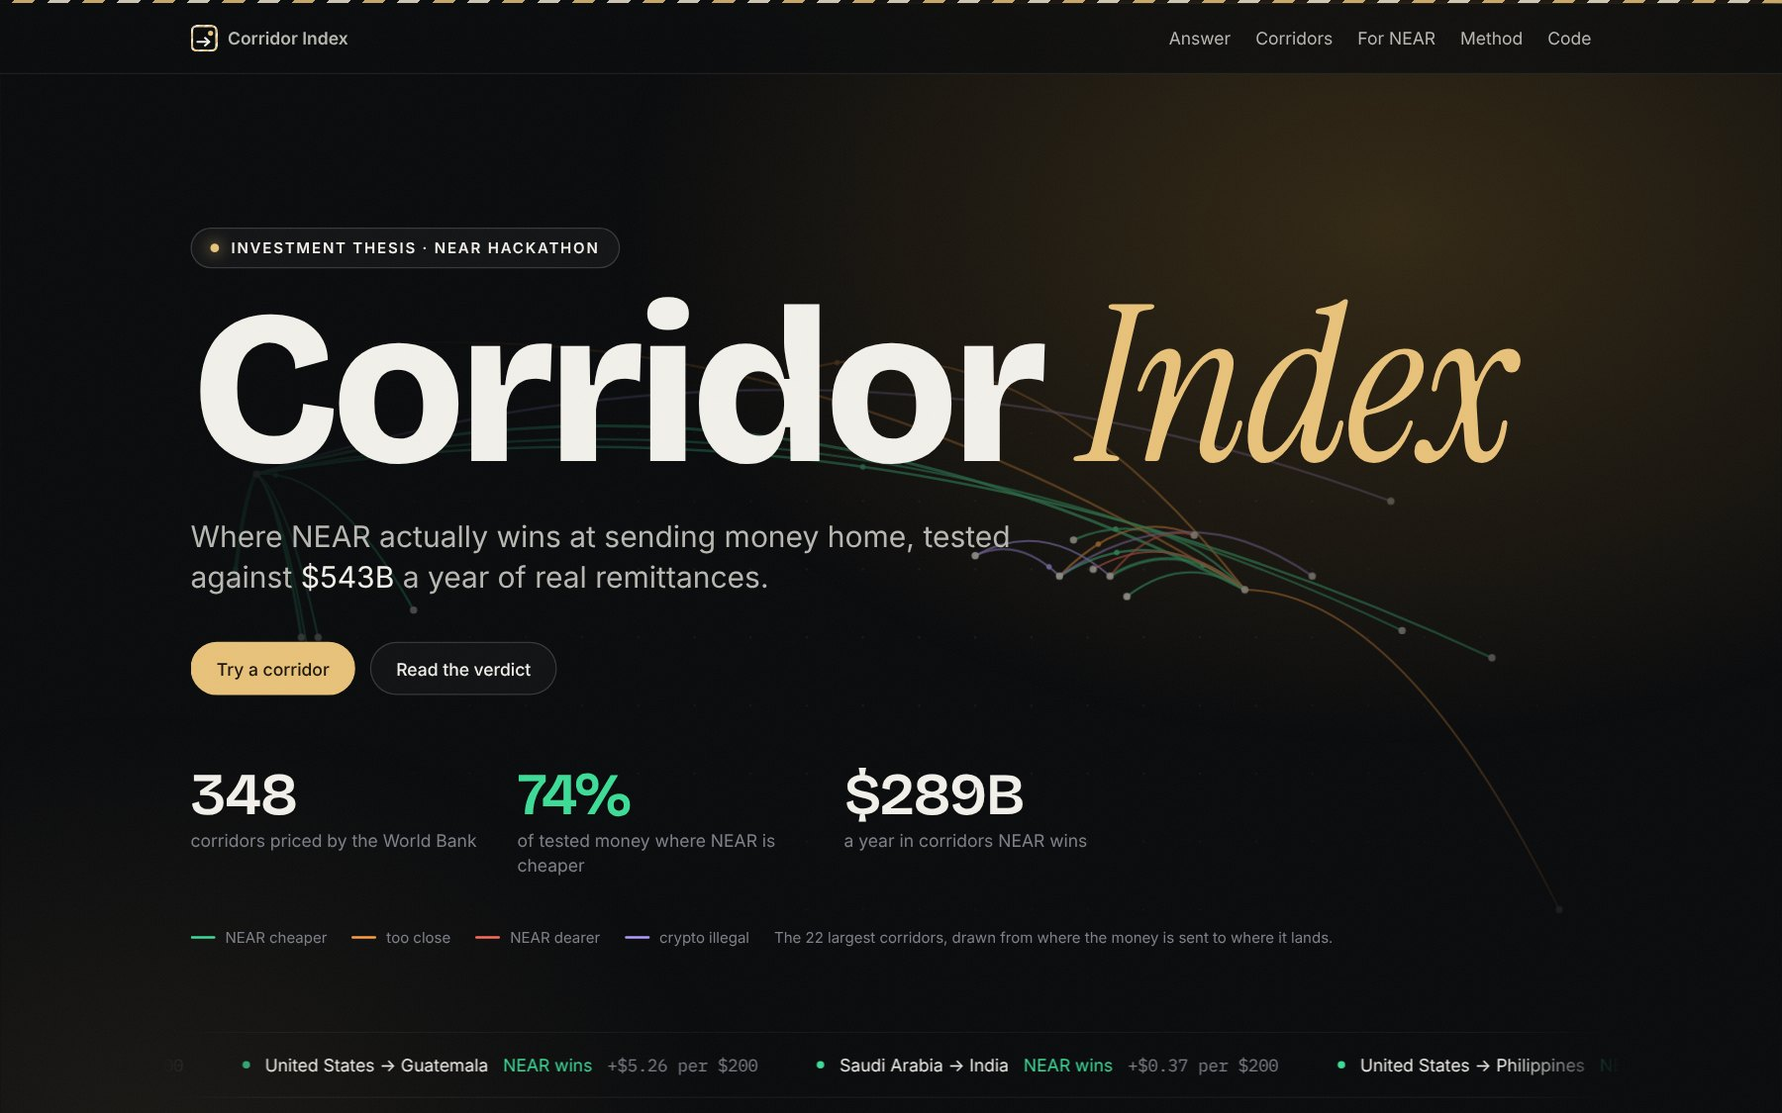
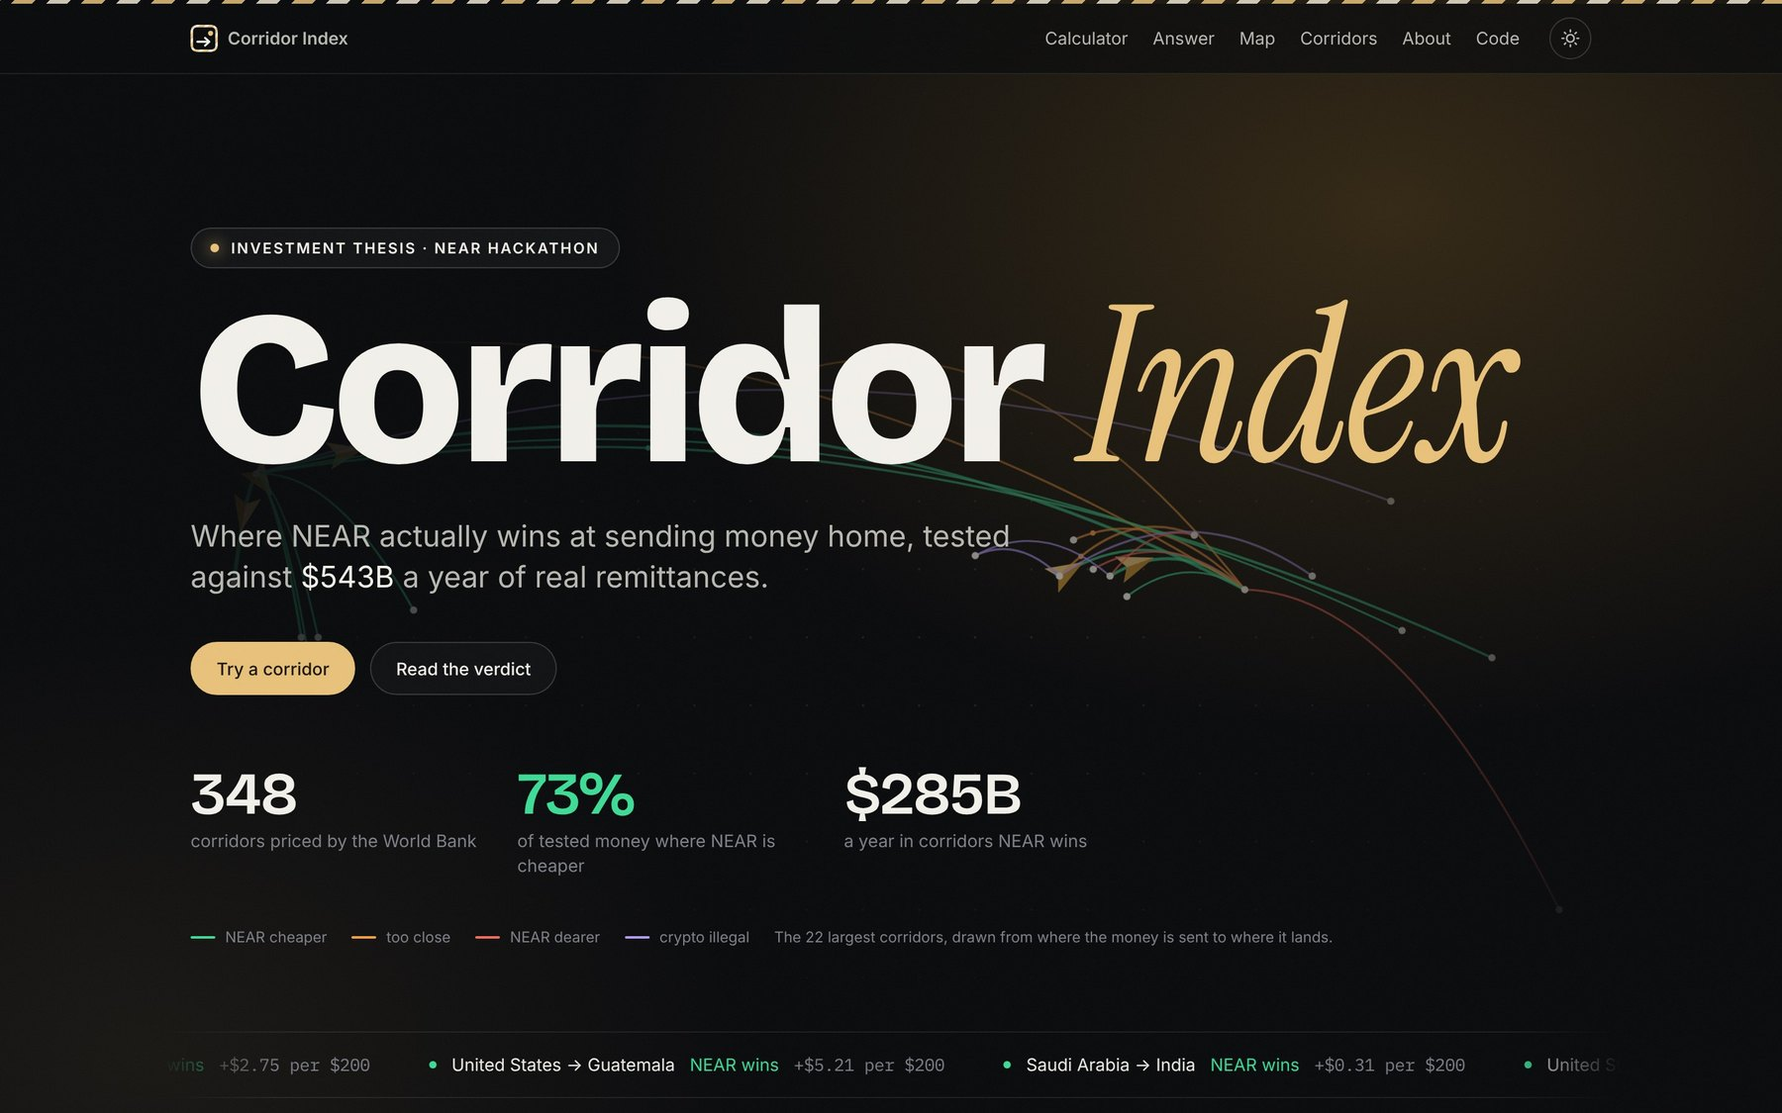
README with feature gallery, live badges and test results; end-to-end checks

diff --git a/src/components/History.tsx b/src/components/History.tsx
@@ -5,7 +5,7 @@ type Row = (typeof history)[number];
 const fmt = (iso: string) => new Date(iso).toLocaleDateString("en-GB", { day: "numeric", month: "short", timeZone: "UTC" }) + ", " + new Date(iso).toLocaleTimeString("en-GB", { hour: "2-digit", minute: "2-digit", timeZone: "UTC" });
 
 function Spark({ title, rows, get, kill, max, color }: { title: string; rows: Row[]; get: (r: Row) => number; kill: number; max: number; color: string }) {
-  const W = 520, H = 170, L = 40, R = 16, Tp = 14, B = 26;
+  const W = 520, H = 170, L = 40, R = 6, Tp = 14, B = 26;
   const x = (i: number) => (rows.length === 1 ? (L + W - R) / 2 : L + (i * (W - L - R)) / (rows.length - 1));
   const y = (v: number) => Tp + (1 - v / max) * (H - Tp - B);
   const pts = rows.map((r, i) => `${x(i).toFixed(1)},${y(get(r)).toFixed(1)}`).join(" ");
@@ -29,7 +29,7 @@ function Spark({ title, rows, get, kill, max, color }: { title: string; rows: Ro
         {rows.map((r, i) => (
           <g key={r.at}>
             <circle cx={x(i)} cy={y(get(r))} r={4.5} fill="var(--paper)" stroke={color} strokeWidth={2}><title>{`${fmt(r.at)} UTC: ${share(get(r), 1)}`}</title></circle>
-            <text x={x(i)} y={H - 6} textAnchor="middle" className="fill-[var(--muted)] text-[10px]">{fmt(r.at)}</text>
+            <text x={x(i)} y={H - 6} textAnchor={rows.length > 1 && i === 0 ? "start" : rows.length > 1 && i === rows.length - 1 ? "end" : "middle"} className="fill-[var(--muted)] text-[10px]">{fmt(r.at)}</text>
           </g>
         ))}
       </svg>

diff --git a/README.md b/README.md
@@ -1,68 +1,114 @@
 <p align="center">
-  <img src="docs/icon.svg" width="72" alt="Corridor Index">
+  <img src="docs/icon.svg" width="76" alt="Corridor Index">
 </p>
 
 <h1 align="center">Corridor Index</h1>
 
-<p align="center"><b>Where NEAR actually wins at sending money home.</b> A re-runnable investment thesis for NEAR, built at NEAR HACKATHON for the <b>Investment Thesis</b> track.</p>
+<p align="center"><b>Where NEAR actually wins at sending money home.</b><br>A re-runnable investment thesis for NEAR, built at NEAR HACKATHON for the <b>Investment Thesis</b> track.</p>
 
 <p align="center">
-  <a href="https://corridor-index-near.vercel.app"><img alt="Live site" src="https://img.shields.io/badge/live-corridor--index--near.vercel.app-17181c"></a>
-  <a href="data/thesis.json"><img alt="348 corridors" src="https://img.shields.io/badge/corridors-348-1d3fbb"></a>
-  <a href="#how-every-number-is-made"><img alt="Re-run with one command" src="https://img.shields.io/badge/re--run-npm%20run%20thesis-0e7a52"></a>
-  <a href="LICENSE"><img alt="MIT license" src="https://img.shields.io/badge/license-MIT-b3261e"></a>
+  <a href="https://corridor-index-near.vercel.app"><img alt="Live site" src="https://img.shields.io/badge/live-corridor--index--near.vercel.app-e8c27a?labelColor=17181c"></a>
+  <a href="https://github.com/farazeool/corridor-index/actions/workflows/rerun.yml"><img alt="Daily re-run" src="https://github.com/farazeool/corridor-index/actions/workflows/rerun.yml/badge.svg"></a>
+  <a href="data/thesis.json"><img alt="348 corridors" src="https://img.shields.io/badge/corridors-348-17181c"></a>
+  <a href="#tested"><img alt="Tests" src="https://img.shields.io/badge/tests-7%20unit%20%C2%B7%2048%20end--to--end-3ddc97?labelColor=17181c"></a>
+  <a href="LICENSE"><img alt="MIT license" src="https://img.shields.io/badge/license-MIT-17181c"></a>
+</p>
+<p align="center">
+  <img alt="NEAR Intents" src="https://img.shields.io/badge/NEAR%20Intents-1Click%20API-00ec97?logo=near&logoColor=white&labelColor=17181c">
+  <img alt="Next.js 16" src="https://img.shields.io/badge/Next.js-16-white?logo=nextdotjs&logoColor=white&labelColor=17181c&color=444">
+  <img alt="React 19" src="https://img.shields.io/badge/React-19-61dafb?logo=react&logoColor=61dafb&labelColor=17181c">
+  <img alt="Tailwind CSS 4" src="https://img.shields.io/badge/Tailwind-4-38bdf8?logo=tailwindcss&logoColor=38bdf8&labelColor=17181c">
+  <img alt="World Bank data" src="https://img.shields.io/badge/data-World%20Bank%20%C2%B7%20CGD%20%C2%B7%20DefiLlama-e8c27a?labelColor=17181c">
 </p>
 
 <p align="center">
-  <img src="docs/hero.jpg" alt="Corridor Index: the 22 largest remittance corridors drawn as arcs, coloured by whether NEAR is cheaper, with the headline numbers" width="900">
+  <a href="https://corridor-index-near.vercel.app"><b>Open the live site</b></a> ·
+  <a href="#try-it-in-two-minutes"><b>Try it in two minutes</b></a> ·
+  <a href="#how-every-number-is-made"><b>How every number is made</b></a> ·
+  <a href="public/data/corridors.csv"><b>Every corridor (CSV)</b></a>
 </p>
 
-Most NEAR theses measure the chain from the inside: transactions, NEAR Intents volume, fees against inflation. This one tests NEAR against a real market. Migrants send about $900 billion home every year. For each of the 348 corridors the World Bank prices, it compares what a family receives today with what it would receive if the money went through NEAR Intents, including the cost of turning local cash into dollars and back again.
+<p align="center">
+  <a href="https://corridor-index-near.vercel.app"><img src="docs/hero.jpg" alt="Corridor Index: the 22 largest remittance corridors drawn as arcs, coloured by whether NEAR is cheaper, with the headline numbers" width="900"></a>
+</p>
 
-- **Live site:** https://corridor-index-near.vercel.app
-- **All numbers:** [`data/thesis.json`](data/thesis.json) · [`public/data/corridors.csv`](public/data/corridors.csv)
+Most NEAR theses measure the chain from the inside: transactions, NEAR Intents volume, fees against inflation. **This one tests NEAR against a real market.** Migrants send about $900 billion home every year. For each of the 348 corridors the World Bank prices, Corridor Index compares what a family receives today with what it would receive if the money went through NEAR Intents, including the cost of turning local cash into dollars and back again. Then it asks whether any of that reaches the NEAR token, and it re-runs every day.
 
-## The answer (first live run, 13 Nov 2026)
+<table>
+  <tr>
+    <td align="center" width="25%"><h2>73%</h2>of the tested money is cheaper to send through NEAR</td>
+    <td align="center" width="25%"><h2>$285B</h2>a year flows through the 128 corridors where NEAR wins</td>
+    <td align="center" width="25%"><h2>$5.9B</h2>a year families would keep if those corridors switched</td>
+    <td align="center" width="25%"><h2>7.4%</h2>of NEAR's new supply covered by protocol revenue at 10% adoption</td>
+  </tr>
+</table>
 
-The site and [`data/thesis.json`](data/thesis.json) always show the latest daily run; the numbers below are from the first one.
+<p align="center"><sub>Latest daily run, 14 Nov 2026. The site and <a href="data/thesis.json"><code>data/thesis.json</code></a> always show the newest run.</sub></p>
 
-| | |
+### Live verdicts
+
+These badges come straight from the site and update with every daily run. Any corridor's badge can be embedded the same way.
+
+<p>
+  <a href="https://corridor-index-near.vercel.app/c/usamex"><img src="https://corridor-index-near.vercel.app/badge/usamex.svg" alt="United States to Mexico"></a>
+  <a href="https://corridor-index-near.vercel.app/c/areind"><img src="https://corridor-index-near.vercel.app/badge/areind.svg" alt="United Arab Emirates to India"></a>
+  <a href="https://corridor-index-near.vercel.app/c/usaind"><img src="https://corridor-index-near.vercel.app/badge/usaind.svg" alt="United States to India"></a>
+  <a href="https://corridor-index-near.vercel.app/c/sauind"><img src="https://corridor-index-near.vercel.app/badge/sauind.svg" alt="Saudi Arabia to India"></a>
+  <a href="https://corridor-index-near.vercel.app/c/kwtpak"><img src="https://corridor-index-near.vercel.app/badge/kwtpak.svg" alt="Kuwait to Pakistan"></a>
+  <a href="https://corridor-index-near.vercel.app/c/saubgd"><img src="https://corridor-index-near.vercel.app/badge/saubgd.svg" alt="Saudi Arabia to Bangladesh"></a>
+</p>
+
+## The answer
+
+| | Latest run (14 Nov 2026) |
 | --- | --- |
 | Corridors priced by the World Bank | 348, carrying $543B a year |
 | Corridors we could test | 187, carrying $391B a year |
-| **NEAR is cheaper** | **127 corridors, $289B a year (74% of tested money)** |
-| Too close to call | 14 corridors, $51B |
-| NEAR is more expensive | 46 corridors, $51B (for example Kuwait → Pakistan and UAE → Pakistan) |
+| **NEAR is cheaper** | **128 corridors, $285B a year (72.9% of the tested money)** |
+| Too close to call | 15 corridors, $53B |
+| NEAR is more expensive | 44 corridors, $53B (for example Kuwait → Pakistan, UAE → Pakistan, Australia → India) |
 | Crypto illegal at one end | 46 corridors, $73B (for example anything to Bangladesh, Egypt, Nepal, Morocco) |
 | Can't test (no public peer-to-peer market) | 115 corridors, $80B |
-| Money families would keep if every winning corridor switched | $5.6B a year |
-| NEAR Intents protocol revenue if 10% of winning corridors switched | about $8M a year, **7.2%** of NEAR's yearly new supply ($116M) |
+| Money families would keep if every winning corridor switched | $5.9B a year |
+| NEAR Intents protocol revenue if 10% of winning corridors switched | about $8M a year, **7.4%** of NEAR's yearly new supply ($109M) |
+| At $500 instead of $200 | NEAR is cheaper for 62% of the tested money (108 corridors) |
 
-**At $500 instead of $200**, fixed fees weigh less for incumbents and NEAR is cheaper for 61% of the tested money (101 corridors). The calculator has a $200 / $500 switch.
+> **Thesis.** NEAR's route is genuinely cheaper for most of the money we can test, so remittances could multiply NEAR Intents' usage many times over: the winning corridors carry about 8.6× what Intents moved in the last year. But only a small share of what users pay reaches the NEAR protocol, so **remittances make NEAR useful long before they make the token scarce.**
 
-**Thesis:** NEAR's route is genuinely cheaper for most of the money we can test, so remittances could multiply NEAR Intents' usage many times over: the winning corridors carry about 9× what Intents moved in the last year. But only a small share of what users pay reaches the NEAR protocol, so remittances make NEAR *useful* long before they make the token *scarce*.
+**Kill criteria, written before the data was pulled.** Both re-check on every run, and the site says so if either fails.
 
-**Kill criteria, written before the data was pulled** (both re-check on every run):
+| Criterion | Line | Latest | |
+| --- | --- | --- | --- |
+| NEAR wins this share of the tested money | at least 25% | 72.9% | ✅ passes |
+| At 10% adoption, protocol revenue covers this share of NEAR's yearly new supply | at least 5% | 7.4% | ✅ passes, narrowly |
 
-1. NEAR must win at least **25%** of the tested money. Result: **74%**, passes.
-2. At 10% adoption of the winning corridors, NEAR Intents protocol revenue must cover at least **5%** of NEAR's yearly new supply. Result: **7.2%**, passes, narrowly.
+**What would change our mind** (shown next to the kill criteria, recomputed every run): NEAR's route costing **2.6** more percentage points breaks criterion 1; just **1.4** more points breaks criterion 2; so does the protocol keeping **33%** less of each swap, or NEAR trading above **$4.95** with revenue unchanged.
 
-Next to the kill criteria, the site shows **what would change the verdict**: how many extra percentage points of cost on NEAR's route (or price cuts by incumbents) break each criterion, how much less the protocol could keep per swap, and the NEAR price above which new supply outweighs the revenue.
+## What you can do on the site
 
-## Try it (do X, see Y)
+<table>
+  <tr>
+    <td width="50%"><img src="docs/calculator.jpg" alt="Calculator: UAE to India, NEAR wins"><br><b>Calculator.</b> Any of 348 corridors at $200 or $500: today's price, NEAR's route broken into cash in, NEAR Intents and cash out, a live 1Click quote, and the verdict.</td>
+    <td width="50%"><img src="docs/map.gif" alt="World map: hover and click countries to see where NEAR is cheaper"><br><b>World map.</b> Every country coloured by where its money lands. Hover for the numbers, click for its corridors, flip between money arriving and money sent.</td>
+  </tr>
+  <tr>
+    <td><img src="docs/kill.jpg" alt="Kill criteria and what would change my mind" width="340"><br><b>Kill criteria and what would change our mind.</b> Pass or fail, and exactly how far each input has to move to flip it.</td>
+    <td><img src="docs/history.jpg" alt="Run by run charts"><br><b>Run by run.</b> A GitHub Action re-tests the thesis daily; each run adds a point against the kill lines (<a href="data/history.json"><code>history.json</code></a>).<br><br><img src="docs/share-card.png" alt="Share card for United States to Mexico"><br><b>Share cards and badges.</b> Every corridor has its own page (<code>/c/usamex</code>), a preview image for X and WhatsApp, and an embeddable SVG badge.</td>
+  </tr>
+  <tr>
+    <td colspan="2"><img src="docs/light.jpg" alt="Light theme" width="49%"> <img src="docs/corridors.jpg" alt="The corridor chart" width="49%"><br><b>Light and dark themes</b>, and <b>every corridor</b> in one sortable, searchable table with a stress-test slider: the bear case, made adjustable.</td>
+  </tr>
+</table>
 
-<p align="center"><img src="docs/calculator.png" alt="The calculator: $200 from the UAE to India arrives as $193.90 with a typical provider and about $196.56 to $198.56 through NEAR Intents, so NEAR wins" width="860"></p>
+## Try it in two minutes
 
-1. Open https://corridor-index-near.vercel.app and click **Try a corridor**. You see a calculator set to **Kuwait → Pakistan**, with a red **NEAR loses** pill: the median provider already charges −0.39% (World Bank, Q3 2025), and NEAR's route costs more than that.
-2. Click **UAE → India**. You see **NEAR wins**: about $196–$198 arrives through NEAR against $193.90 today, the cost broken into cash in, NEAR Intents and cash out, and how much more the family keeps per $200. Below it is a live NEAR Intents quote, fetched from the 1Click API when the page loads. Click **Share this corridor** and paste the link into X or WhatsApp: every corridor has its own page (`/c/areind`) with a preview image showing its verdict.
-3. Scroll to **The map** and click any coloured country, for example India. You see where its money comes from, how much of it NEAR would carry for less, and a link to each corridor. Switch to **Money sent from** to see it from the sender's side.
-4. Under **The answer**, **Run by run** shows the win share and the revenue test on every daily run so far, against their kill lines.
-5. Scroll to **Every corridor** and drag the **stress-test** slider from 1.0 to 3.0 points. You see the count of winning corridors and the share of tested money fall as NEAR is given a worse deal. That is the bear case, made adjustable.
-6. Click **Crypto illegal** or **Can't test**. You see every corridor that was left out, with the reason.
-7. Click **About** (or **Read the rest**) and, in **Is it worth it for NEAR?**, drag the adoption slider. You see the extra protocol revenue next to today's Intents revenue and NEAR's yearly new supply.
-8. Open any corridor page (for example `/c/areind`) and copy its **badge**: a live SVG verdict for a README or blog, re-made on every run.
-9. Click the sun icon in the header for the light theme.
-10. Click **Corridors (CSV)** in the footer. You get every corridor with its sources, ready for a spreadsheet.
+1. Open **https://corridor-index-near.vercel.app** and click **Try a corridor**. The calculator opens on **Kuwait → Pakistan** with a red **NEAR loses**: the median provider already charges −0.39% (World Bank, Q3 2025), and NEAR's route costs more.
+2. Click **UAE → India**. **NEAR wins**: about $196–$198 arrives through NEAR against $193.90 today. Switch to **$500** to see the gap narrow. Click **Share this corridor** and paste the link anywhere: it unfurls with that corridor's verdict.
+3. Under **The answer**, read the kill criteria, **What would change my mind**, and **Run by run**.
+4. In **The map**, click India, then flip to **Money sent from** and click Saudi Arabia.
+5. In **Every corridor**, drag the **stress test** from 1.0 to 3.0 points and watch the winning share fall. Click **Crypto illegal** or **Can't test** to see what was left out, and why.
+6. Click **About**, and in **Is it worth it for NEAR?** drag the adoption slider.
+7. Open any corridor page, for example [`/c/areind`](https://corridor-index-near.vercel.app/c/areind), and copy its **badge**. Click the sun icon for the **light theme**.
 
 ## How every number is made
 
@@ -87,6 +133,8 @@ npm install
 npm run fetch    # pulls every source below into data/raw (needs internet)
 npm run thesis   # rebuilds data/thesis.json and prints the verdict
 npm test         # 7 tests of the rules
+npm run build && npm start   # then, in another terminal:
+BASE=http://localhost:3000 npm run e2e   # 48 end-to-end checks (needs Playwright)
 npm run dev      # the site, on http://localhost:3000
 ```
 
@@ -105,13 +153,18 @@ npm run dev      # the site, on http://localhost:3000
 ### The rules (`lib/model.mjs`)
 
 - **Today's cost** for a corridor is the *lower* of the median provider and the average online provider, so NEAR is always compared with the cheaper option.
-- **NEAR's cost** = the premium paid to buy USDT with the sender's currency + the median NEAR Intents quote for $200 (0.35%) + any discount when selling USDT for the receiver's currency.
+- **NEAR's cost** = the premium paid to buy USDT with the sender's currency + the median NEAR Intents quote for $200 (about 0.4%) + any discount when selling USDT for the receiver's currency.
 - When dollars sell *above* the official rate (India +12%, Pakistan +4%, Egypt +4% on 13 Nov), that premium is **ignored**, never counted as a gain. It is shown separately, as a sign of demand and a regulatory risk.
 - **NEAR wins** only if its cost plus a 1-point allowance (worse fills, network fees) is still below today's cost. **NEAR loses** if its cost is above today's even before the allowance. Anything in between is **too close to call**.
 - Corridors where crypto is illegal at either end, or where no public peer-to-peer market exists for one of the currencies, are **left out** of the verdict rather than guessed.
 - Value to NEAR uses **protocol revenue** (DefiLlama "revenue"), not total fees, because most fees go to solvers and integrators.
 
-<p align="center"><img src="docs/corridors.png" alt="The 18 largest tested corridors: cost today versus the NEAR route" width="900"></p>
+<p align="center"><img src="docs/corridors.jpg" alt="The 18 largest tested corridors: cost today versus the NEAR route" width="900"></p>
+
+## Tested
+
+- `npm test`: 7 unit tests of the rules in `lib/model.mjs` (verdict boundaries, the ignored off-ramp premium, the $500 test, the kill criteria).
+- `npm run e2e`: 48 end-to-end checks against the built site: every route and data file, the calculator, sharing, the $500 switch, the map, the stress test, tabs and search, the theme switch, corridor pages and badges, the About sliders, every internal link, mobile layout with no sideways scrolling, and no page errors. All 48 pass.
 
 ## Limits
 
@@ -126,18 +179,19 @@ npm run dev      # the site, on http://localhost:3000
 | Path | What it is |
 | --- | --- |
 | `lib/model.mjs` | The rules, the verdicts, the sizing and the kill criteria |
-| `src/lib/mind.ts` | How far each input must move before a kill criterion fails |
 | `scripts/fetch.mjs` | Pulls every source into `data/raw` |
 | `scripts/build.mjs` | Builds `data/thesis.json`, the public CSV, and appends the run to `data/history.json` |
 | `scripts/world.mjs` | Builds the world map outlines (Natural Earth 1:110m via `world-atlas`) |
-| `test/model.test.mjs` | Tests of the rules |
-| `src/app` | The Next.js site: home (calculator, verdict, corridors), `/about` (value for NEAR, bear case, method), `/privacy`, `/c/<corridor>` (one page and share image per corridor), `/badge/<corridor>.svg` (embeddable verdict badge); `src/app/api/quote` asks NEAR Intents for a live $200 quote |
+| `src/lib/mind.ts` | How far each input must move before a kill criterion fails |
+| `test/` | Unit tests of the rules and the end-to-end checks |
+| `src/app` | The Next.js site: home (calculator, answer, map, corridors), `/about` (value for NEAR, bear case, method), `/privacy`, `/c/<corridor>` (one page and share image per corridor), `/badge/<corridor>.svg` (embeddable verdict); `src/app/api/quote` asks NEAR Intents for a live $200 quote |
+| `.github/workflows/rerun.yml` | The daily re-run |
 
 ## Built with
 
-Next.js 16, React 19, Tailwind CSS 4, SheetJS (`xlsx`) for the World Bank and CGD workbooks, Bricolage Grotesque, Instrument Serif, Inter and IBM Plex Mono (via Fontsource). Data from the World Bank, the Center for Global Development, NEAR Intents, Binance P2P, ExchangeRate-API, DefiLlama and NEAR RPC.
+Next.js 16, React 19, Tailwind CSS 4, d3-geo and world-atlas for the map, SheetJS (`xlsx`) for the World Bank and CGD workbooks, Bricolage Grotesque, Instrument Serif, Inter and IBM Plex Mono (via Fontsource). Data from the World Bank, the Center for Global Development, NEAR Intents, Binance P2P, ExchangeRate-API, DefiLlama and NEAR RPC.
 
-**AI assistance:** the code, the data pipeline and the copy were written with an AI coding assistant, directed and checked by the authors.
+**AI assistance:** the code, the data pipeline, the copy and the demo video were written with an AI coding assistant, directed and checked by the authors. The video's voiceover uses the open-source Kokoro text-to-speech model.
 
 **Our other NEAR HACKATHON project:** [Passpot](https://github.com/farazeool/Passpot), a rotating savings circle on NEAR (Social Money and Real-World Money tracks).
 
